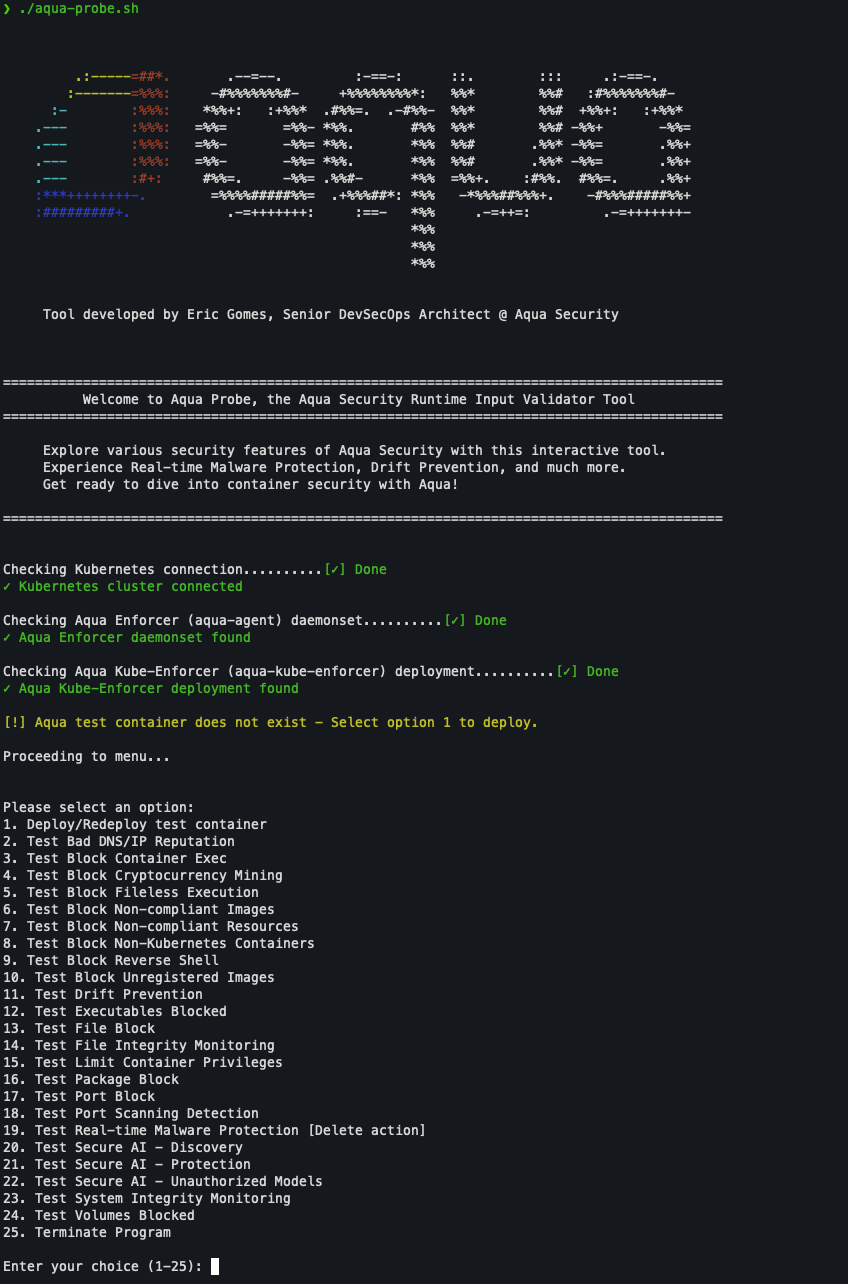
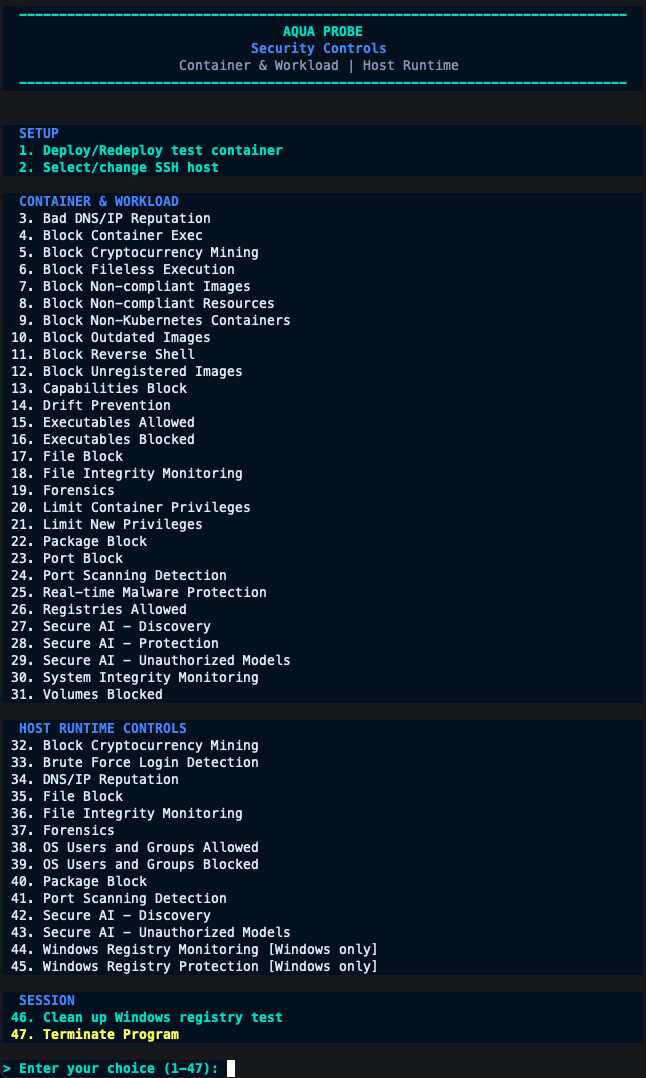
Refresh terminal media and showcase walkthrough in README

Changed region(s): [[0.0, 0.0, 0.8359, 1.0], [0.5263, 0.4592, 0.5882, 0.4898], [0.6811, 0.5204, 0.7121, 0.551]]

diff --git a/README.md b/README.md
@@ -18,6 +18,7 @@
 <p align="center">
   <a href="#quick-start">Quick start</a> &middot;
   <a href="#capabilities">Capabilities</a> &middot;
+  <a href="#see-aqua-probe-in-action">Walkthrough</a> &middot;
   <a href="docs/control-reference.md">Control reference</a> &middot;
   <a href="#documentation">Documentation</a>
 </p>
@@ -31,6 +32,35 @@ Aqua Probe is an interactive Bash tool for exercising Aqua runtime security cont
 Use it to structure customer workshops, Compass classes, technical enablement, demos, and proofs of value: select a control, explain the expected behavior, run the test, and review what actually happened. Policies are configured by the operator; Aqua Probe does not automatically create or restore Aqua policies.
 
 This repository does not establish Aqua Probe as an officially supported Aqua Security product.
+
+## See Aqua Probe in Action
+
+### One Menu, Two Runtime Scopes
+
+Setup, container/workload controls, host controls, and session cleanup are grouped in a single terminal menu. Select a control to follow its policy prerequisites, test steps, and evidence-review guidance.
+
+<p align="center">
+  <a href="misc/aqua-probe-advanced-commands.png">
+    <img src="misc/aqua-probe-advanced-commands.png" width="560" alt="Aqua Probe terminal menu showing setup, container and workload controls, host runtime controls, and session cleanup options">
+  </a>
+</p>
+
+<p align="center"><em>Current terminal menu, captured November 2, 2026. Select the image for the full-size view.</em></p>
+
+<details>
+<summary><strong>Watch the terminal walkthrough</strong> &middot; 48 seconds</summary>
+
+Recorded November 2, 2026. Expand to view the demo; collapse to keep the page still while reading.
+
+<p align="center">
+  <a href="misc/aqua-probe-demo.gif">
+    <img src="misc/aqua-probe-demo.gif" width="680" alt="Recorded Aqua Probe terminal session demonstrating the interactive workflow">
+  </a>
+</p>
+
+[Open the full-size demo](misc/aqua-probe-demo.gif). This recording illustrates a lab session, not a guarantee of detection in another environment. Review the [safety guidance](#lab-safety-and-cleanup) before testing.
+
+</details>
 
 ## Capabilities
 
@@ -165,9 +195,9 @@ The CLI initializes image and namespace defaults at startup. Use flags rather th
 | [Rebranding summary](SUMMARY_REPORT.md) | Historical migration notes |
 
 <details>
-<summary>Earlier visual walkthroughs</summary>
+<summary>Earlier PDF guide</summary>
 
-The [PDF user guide](user-guide/Aqua-Probe_Userguide.pdf), [terminal screenshot](misc/aqua-probe-advanced-commands.png), and [recorded demo](misc/aqua-probe-demo.gif) are retained for reference. They predate the current interface and may show older branding, menu numbers, or workflows. Use the current script and control reference for instructions.
+The [PDF user guide](user-guide/Aqua-Probe_Userguide.pdf) is retained for reference. It predates the current interface and may show older branding, image versions, menu numbers, or workflows. Use the current script and control reference for instructions. The updated [terminal screenshot and demo](#see-aqua-probe-in-action) are featured above.
 
 </details>
 
